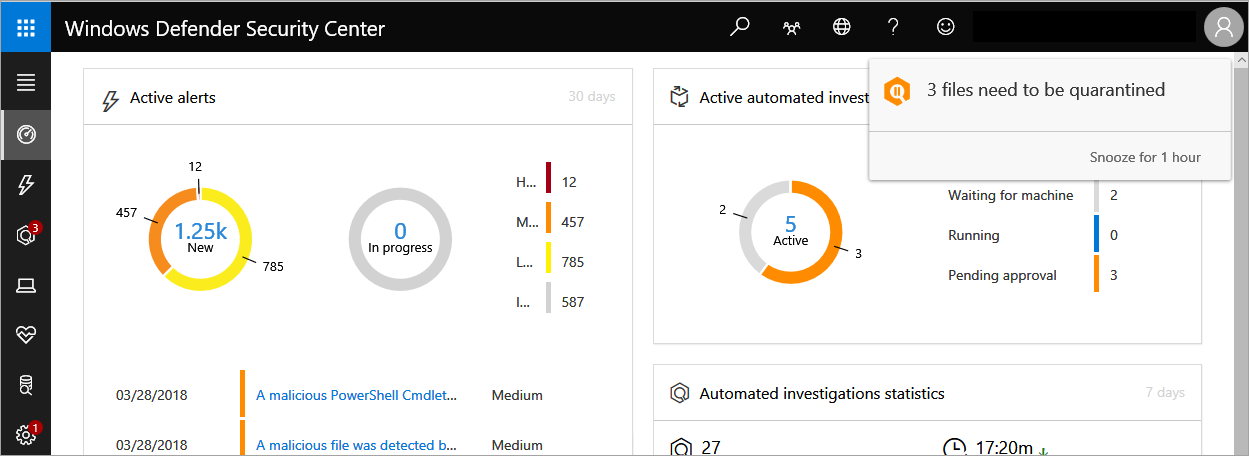
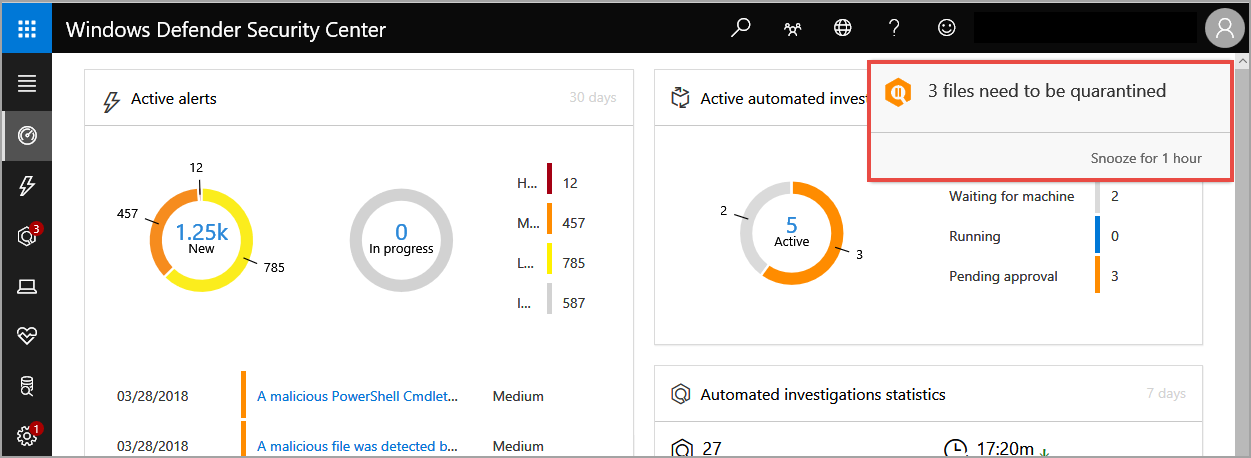
update automated investigations

diff --git a/windows/security/threat-protection/windows-defender-atp/automated-investigations-windows-defender-advanced-threat-protection.md b/windows/security/threat-protection/windows-defender-atp/automated-investigations-windows-defender-advanced-threat-protection.md
@@ -200,8 +200,11 @@ This tab is only displayed when an investigation is complete and shows all pendi
 
 
 ## Pending actions
-If there are pending actions on an automated investigation, you'll see a pop up similar to the following image. When you click on the pending actions link, you'll be taken to the pending actions page.
+If there are pending actions on an automated investigation, you'll see a pop up similar to the following image. 
 
+![Image of pending actions](images\atp-pending-actions-notification.png)
+
+When you click on the pending actions link, you'll be taken to the pending actions page.
 
  
 The pending actions view aggregates all investigations that require an action for an investigation to proceed or be completed.
@@ -222,6 +225,9 @@ Pending actions are grouped together in the following tabs:
 
 ### Approve or reject an action
 You'll need to manually approve or reject pending actions on each of these categories for the automated actions to proceed.
+
+
+![Image of list of pending actions](images/atp-approve-reject-action.png)
 
 Selecting an investigation from any of the categories opens a panel where you can approve or reject the remediation. Other details such as file or service details, investigation details, and alert details are displayed.
 
